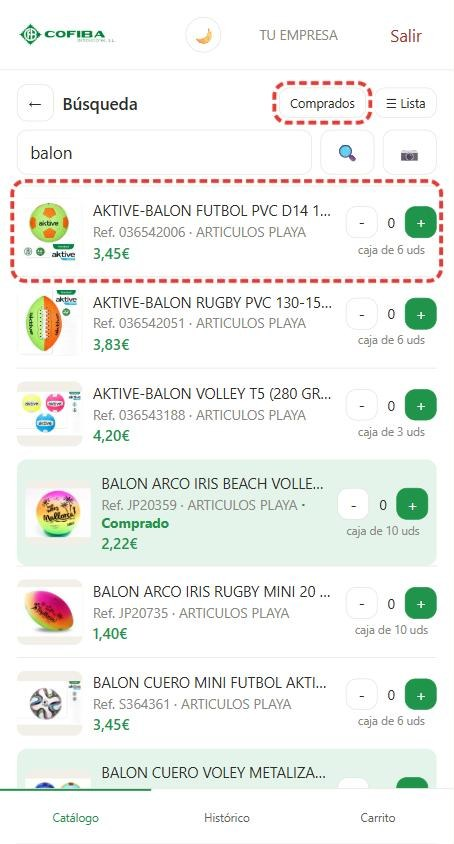
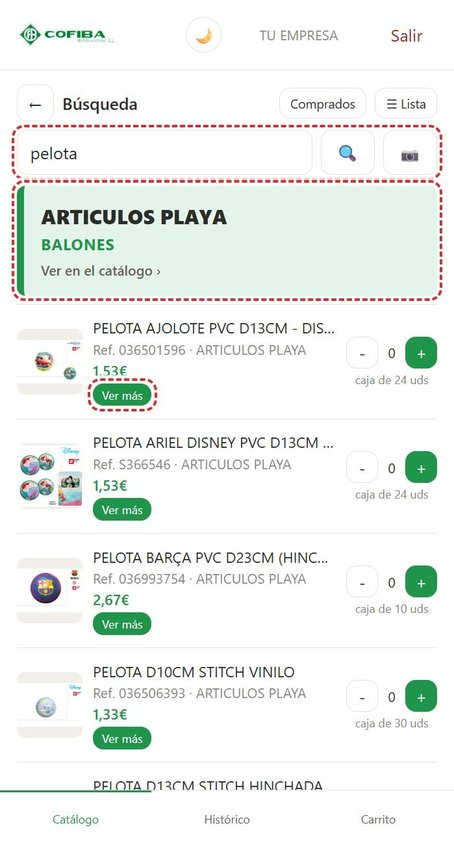
Instrucciones: fotos nuevas de búsqueda, ficha, modo foto, «Te puede interesar» y Histórico; ayuda del modo foto legible

diff --git a/client/src/components/TutorialViewer.jsx b/client/src/components/TutorialViewer.jsx
@@ -24,10 +24,15 @@ const DIAPOSITIVAS = [
   {
     archivo: '/tutorial/slide-04-ficha-producto.jpg',
     titulo: 'Ficha ampliada',
-    texto: 'Toca un producto para verlo en grande; arriba ves el contador, la subcategoría y ✓ Comprado si ya lo compraste. Desliza o toca ‹ › para pasar al siguiente. Toca la foto para verla sola y ampliarla con dos dedos. Para salir: Cerrar o «atrás».',
+    texto: 'Toca un producto para verlo en grande; arriba ves el contador, la subcategoría y ✓ Comprado si ya lo compraste. Desliza o toca ‹ › para pasar al siguiente. Para salir: Cerrar o «atrás».',
   },
   {
-    archivo: '/tutorial/slide-04-ficha-producto.jpg',
+    archivo: '/tutorial/slide-04b-modo-foto.jpg',
+    titulo: 'Solo la foto',
+    texto: 'En la ficha, toca la foto para verla sola a pantalla completa. Amplía o reduce con dos dedos, arrastra para moverte y toca dos veces para acercar o volver. Sal con la ✕ roja o con «atrás».',
+  },
+  {
+    archivo: '/tutorial/slide-05-te-puede-interesar.jpg',
     titulo: 'También te puede interesar',
     texto: 'Debajo de la ficha salen artículos parecidos. Toca uno para recorrerlos igual, con su contador y subcategoría; «‹ Volver a la lista» (o «atrás») te devuelve a donde estabas.',
   },
@@ -47,22 +52,22 @@ const DIAPOSITIVAS = [
     texto: 'Botón «Histórico» de abajo: todo lo que has comprado, ordenado por categorías y subcategorías. La primera vez se va leyendo de Cofiba (barra verde); puedes usarlo mientras, y lo que compres se añade solo.',
   },
   {
-    archivo: '/tutorial/slide-09-historico.jpg',
+    archivo: '/tutorial/slide-08-historico-buscar.jpg',
     titulo: 'Busca y ordena tu histórico',
     texto: 'Escribe arriba para buscar solo entre lo que ya compraste. Elige cuántos artículos ver de golpe (25, 50, 100…) y cambia entre Lista y Rejilla. «Actualizar» vuelve a leerlo de Cofiba.',
   },
   {
-    archivo: '/tutorial/slide-09-historico.jpg',
+    archivo: '/tutorial/slide-09-historico-franjas.jpg',
     titulo: 'Las franjas de categoría',
     texto: 'Cada franja verde separa una subcategoría. Tócala para ir a esa subcategoría del catálogo. El botón rojo «✕ Quitar» la despeja de la lista mientras preparas el pedido; al salir del Histórico vuelve a aparecer.',
   },
   {
-    archivo: '/tutorial/slide-09-historico.jpg',
+    archivo: '/tutorial/slide-10-historico-repetir.jpg',
     titulo: 'Repite tus compras',
     texto: 'Con + y − añades o quitas cajas al carrito. «Ver más» abre la categoría del artículo; al volver atrás sigues justo por donde ibas.',
   },
   {
-    archivo: '/tutorial/slide-04-ficha-producto.jpg',
+    archivo: '/tutorial/slide-11-historico-ficha.jpg',
     titulo: 'Repasa en grande',
     texto: 'Toca un artículo para verlo en grande y desliza para pasar al siguiente. Bajo el contador ves la subcategoría; al cambiar de subcategoría sale un aviso con su nombre: desliza otra vez para seguir. Al cerrar, el listado queda a la altura del último que viste. Pulsar el botón de abajo te lleva otra vez arriba, actualizado.',
   },

diff --git a/client/src/styles.css b/client/src/styles.css
@@ -1479,11 +1479,16 @@ button:disabled:active,
 .visor-foto-pista {
   position: absolute;
   bottom: 18px;
-  left: 0;
-  right: 0;
+  left: 50%;
+  transform: translateX(-50%);
+  width: max-content;
+  max-width: calc(100% - 32px);
   text-align: center;
-  color: rgba(255, 255, 255, 0.75);
-  font-size: 13px;
+  color: #fff;
+  background: rgba(0, 0, 0, 0.65);
+  font-size: 14px;
+  padding: 8px 14px;
+  border-radius: 999px;
   margin: 0;
   pointer-events: none;
 }
